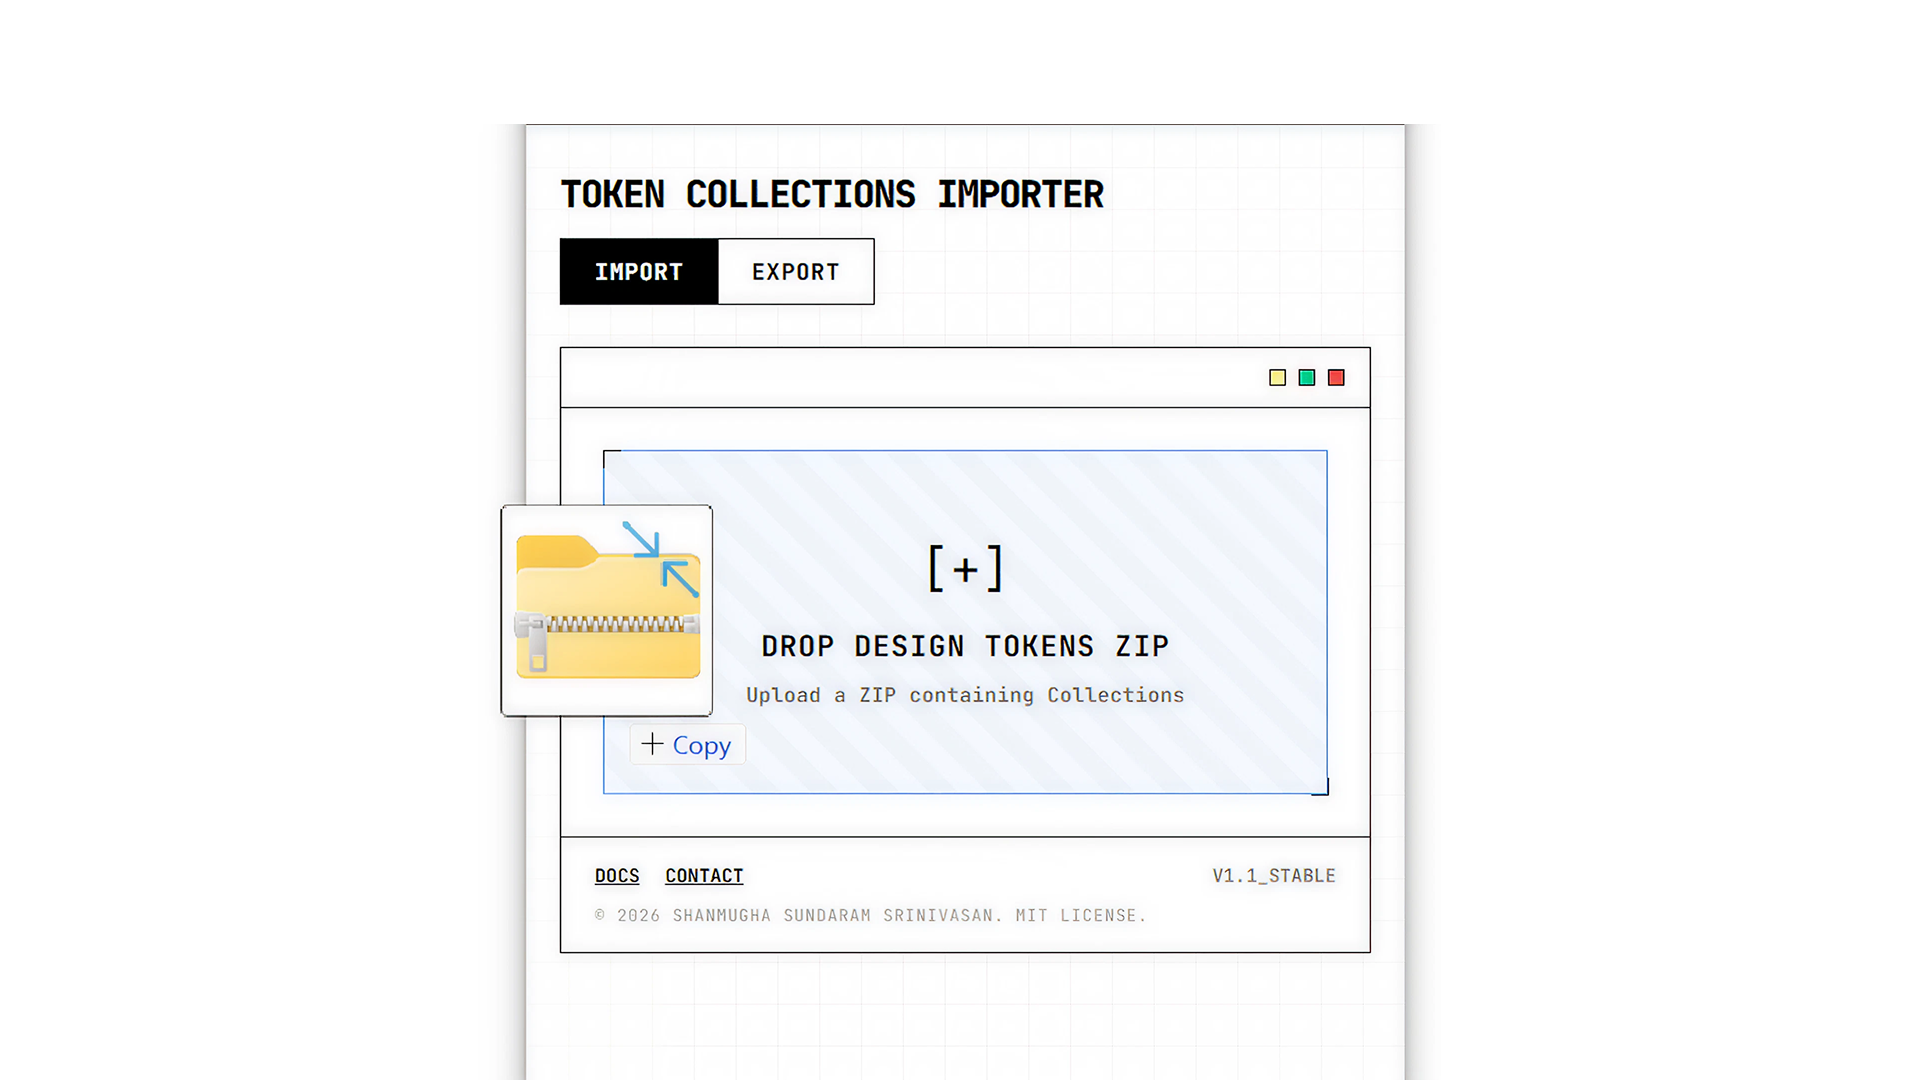
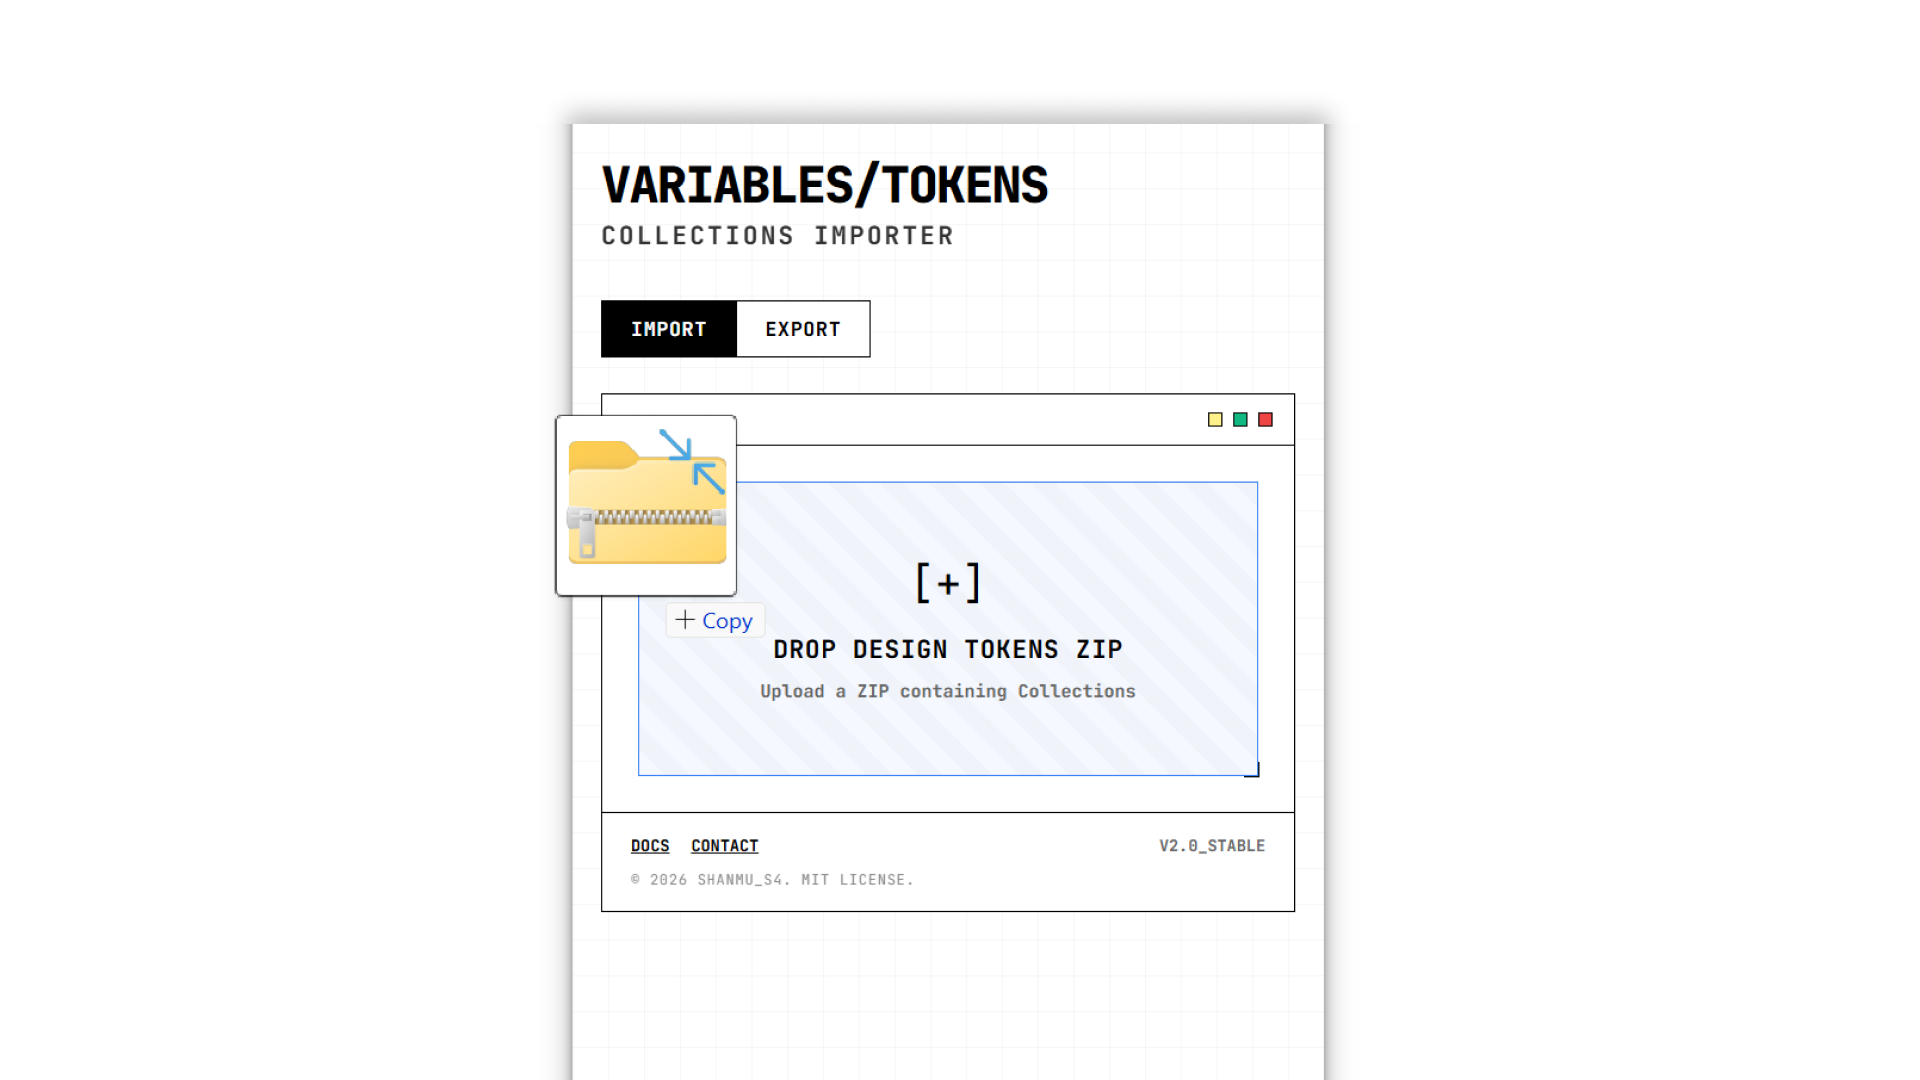
chore: bump plugin version to 2.0 STABLE

Changed region(s): [[0.25, 0.0917, 0.75, 1.0], [0.4688, 0.5194, 0.5312, 0.55]]

diff --git a/token-import-plugin-figma/ui.html b/token-import-plugin-figma/ui.html
@@ -77,17 +77,31 @@
     .app-header {
         display: flex;
         flex-direction: column;
-        gap: 12px;
+        gap: 28px;
     }
     
     .main-title {
         font-family: var(--font-main);
-        font-size: 18px;
-        font-weight: 900;
         text-transform: uppercase;
-        letter-spacing: -0.8px;
-        line-height: 1;
         color: var(--panel-dark);
+        line-height: 1.2;
+        display: flex;
+        flex-direction: column;
+    }
+    
+    .title-primary {
+        font-size: 28px;
+        font-weight: 900;
+        letter-spacing: -1.2px;
+        line-height: 1;
+    }
+    
+    .title-secondary {
+        font-size: 14px;
+        font-weight: 700;
+        letter-spacing: 1.5px;
+        margin-top: 6px;
+        opacity: 0.8;
     }
 
     .tabs-row { display: flex; gap: 0; }
@@ -255,7 +269,10 @@
 
 <div class="system-environment">
     <div class="app-header">
-        <h1 class="main-title">VARIABLES TOKENS COLLECTIONS IMPORTER</h1>
+        <h1 class="main-title">
+            <span class="title-primary">VARIABLES/TOKENS</span>
+            <span class="title-secondary">COLLECTIONS IMPORTER</span>
+        </h1>
         <div class="tabs-row">
             <div id="tab-import" class="tab active" onclick="switchTab('import')">IMPORT</div>
             <div id="tab-export" class="tab inactive" onclick="switchTab('export')">EXPORT</div>
@@ -356,10 +373,10 @@
                     <a href="https://github.com/Shanmus4/figma-variables-tokens-generator" target="_blank" class="footer-link">Docs</a>
                     <div class="footer-link" onclick="toggleContact(true)">Contact</div>
                 </div>
-                <div class="v-stable">V1.1_STABLE</div>
+                <div class="v-stable">V2.0_STABLE</div>
             </div>
             <div class="copyright-row">
-                © 2026 SHANMUGHA SUNDARAM SRINIVASAN. MIT LICENSE.
+                © 2026 SHANMU_S4. MIT LICENSE.
             </div>
         </div>
     </div>

diff --git a/README.md b/README.md
@@ -5,7 +5,7 @@
 Welcome to the **Figma Variables Generator Ecosystem**. This project consists of two core components working in tandem to automate the creation and structuring of complex design tokens directly inside Figma.
 
 1. **The AI Skill**: An expert AI prompt architecture that guides you through building a token system and generates a highly structured ZIP of W3C-compliant JSON files.
-2. **[Variables Tokens Collections Importer](https://www.figma.com/community/plugin/1619733963699677957)** (v1.1 Stable): A dedicated Figma plugin that reads the ZIP file and automatically imports all collections in the precise dependency order required by Figma.
+2. **[Variables Tokens Collections Importer](https://www.figma.com/community/plugin/1619733963699677957)** (v2.0 Stable): A dedicated Figma plugin that reads the ZIP file and automatically imports all collections in the precise dependency order required by Figma.
 
 ---
 
@@ -55,7 +55,7 @@ Depending on your environment, there are also manual ways to utilize the Figma V
 
 Because of Figma's strict dependency requirements, variables must be imported starting from the root parent (Primitives) up to the final component tokens. 
 
-The **Figma Variables Importer Plugin (v1.1 Stable)** automatically resolves this. It reads the prefixed folder numbers generated by the AI (e.g., `1. Primitives/`) and sequentially imports them, ensuring that aliased variables never drop references.
+The **Figma Variables Importer Plugin (v2.0 Stable)** automatically resolves this. It reads the prefixed folder numbers generated by the AI (e.g., `1. Primitives/`) and sequentially imports them, ensuring that aliased variables never drop references.
 
 ### How to Install the Plugin
 

diff --git a/token-import-plugin-figma/README.md b/token-import-plugin-figma/README.md
@@ -1,4 +1,4 @@
-# Variables Tokens Collections Importer — Figma Plugin [v1.1 STABLE]
+# Variables Tokens Collections Importer — Figma Plugin [v2.0 STABLE]
 
 Import and export Figma Variables ZIPs generated by the Figma Variables Tokens Generator skill.
 
